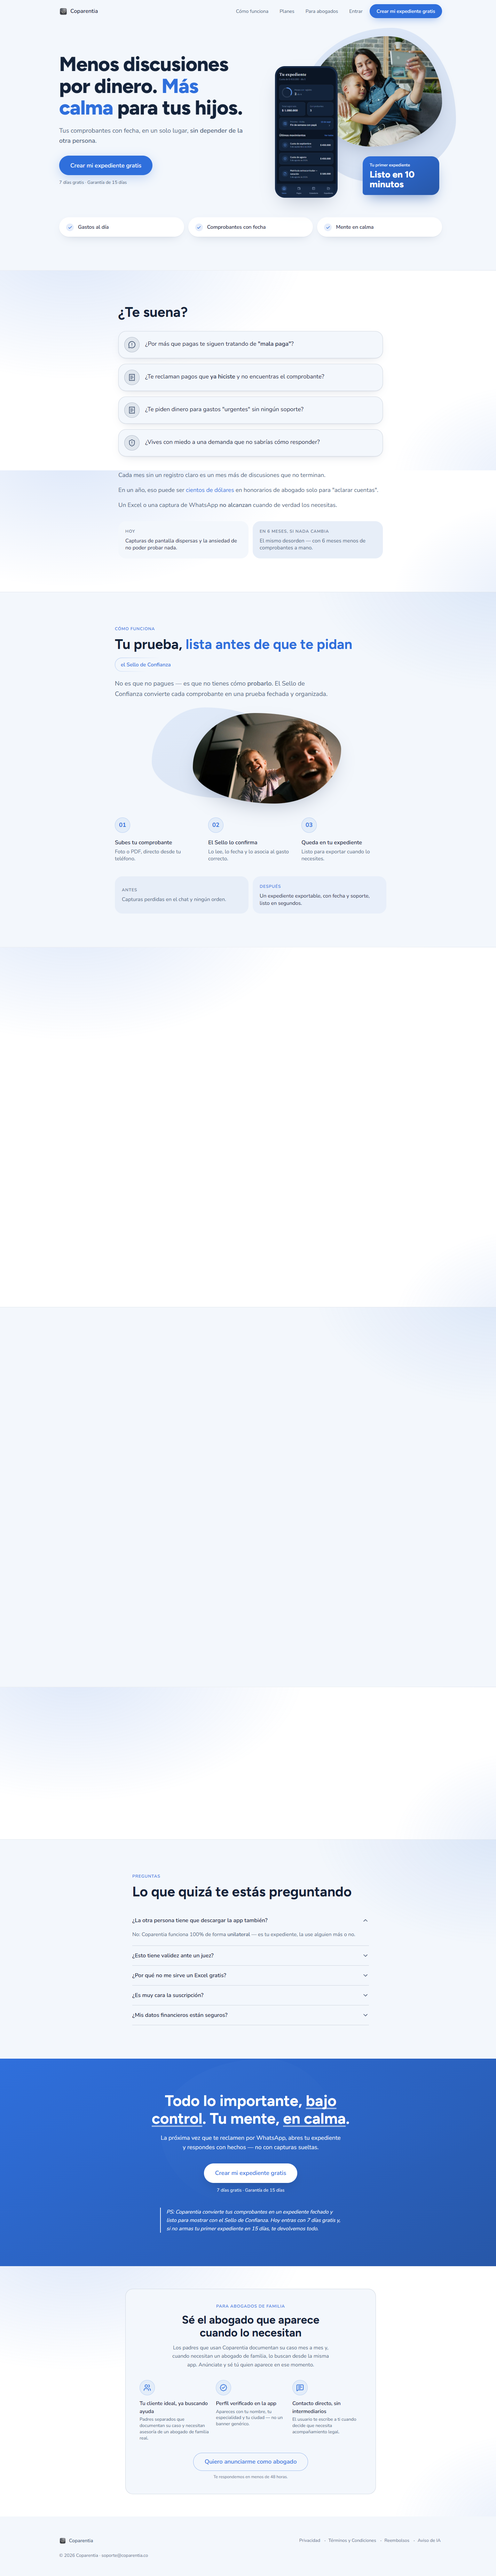
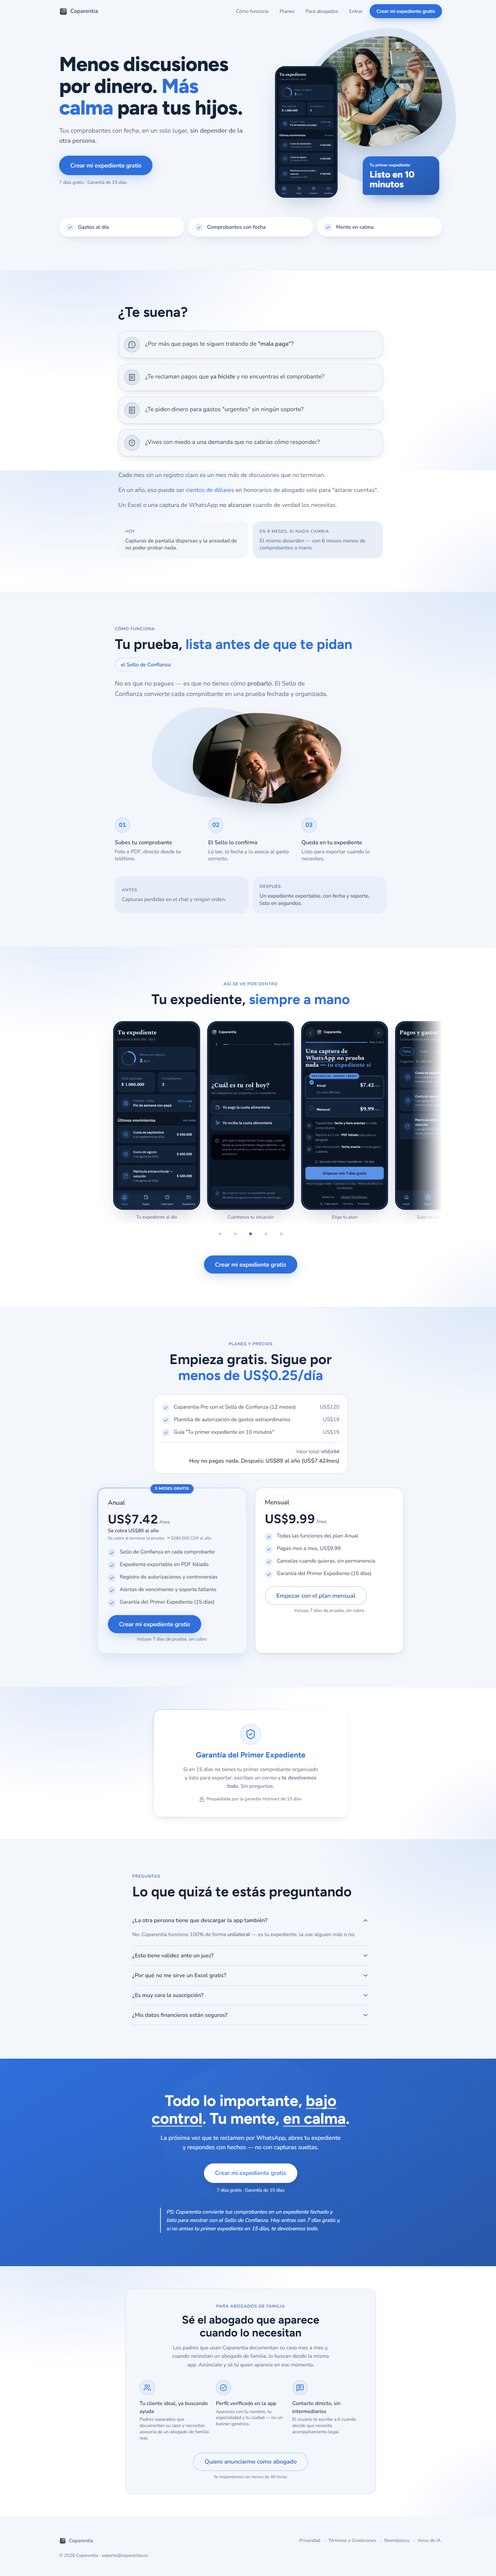
fix: landing clara r4 — un solo 'gratis' en la card anual, --accent-ink para texto pequeno en acento (6.5:1), foto de Solucion reencuadrada, Mensual sin bullet duplicado; cierre del rediseno en techo documentado

diff --git a/app/page.tsx b/app/page.tsx
@@ -110,7 +110,13 @@ export default function Home() {
       {/* 4. SOLUCIÓN */}
       <Solucion
         id="como-funciona"
-        foto={<img src="/fotos/solucion-papa-hija.jpg" alt="Papá e hija riendo juntos" className="h-full w-full object-cover object-[50%_40%]" width={1200} height={800} loading="lazy" />}
+        foto={
+          <span className="relative block h-full w-full">
+            <img src="/fotos/solucion-papa-hija.jpg" alt="Papá e hija riendo juntos" className="h-full w-full object-cover object-[42%_28%]" width={1200} height={800} loading="lazy" />
+            {/* Velo cálido tenue: la foto es más fría que la del hero y sin él parecían dos tratamientos. */}
+            <span aria-hidden="true" className="absolute inset-0 bg-[var(--foto-1)] opacity-10 mix-blend-multiply" />
+          </span>
+        }
         tituloMarked="Tu prueba, [acento]lista antes de que te pidan[/acento]"
         mecanismo="el Sello de Confianza"
         bigIdeaMarked="No es que no pagues — es que no tienes cómo [b]probarlo[/b]. El Sello de Confianza convierte cada comprobante en una prueba fechada y organizada."
@@ -173,15 +179,15 @@ export default function Home() {
         mensual={{
           nombre: 'Mensual',
           precioMes: 'US$9.99',
-          ctaLabel: 'Crear mi expediente · mensual',
+          ctaLabel: 'Empezar con el plan mensual',
           ctaHref: '/onboarding?plan=mensual',
           // Antes repetía 4 de los 5 bullets del plan anual y el diferenciador real se diluía.
           // Ahora dice solo en qué se diferencia: mismas funciones, sin compromiso de 12 meses.
           features: [
             'Todas las funciones del plan Anual',
+            'Pagas mes a mes, US$9.99',
             'Cancelas cuando quieras, sin permanencia',
             'Garantía del Primer Expediente (15 días)',
-            'Sin compromiso de 12 meses',
           ],
         }}
       />

diff --git a/components/landing/Solucion.tsx b/components/landing/Solucion.tsx
@@ -79,7 +79,7 @@ export function Solucion({
         {/* El chip del mecanismo bautizado — hairline + <Accent> (55 §4) */}
         <motion.div variants={item} className="mt-4">
           <Hairline surface="bg" radio="button" className="w-fit">
-            <span className="block px-4 py-2 text-[15px] font-semibold">
+            <span className="block px-4 py-2 text-[15px] font-semibold [--accent:var(--accent-ink)]">
               <Accent>{mecanismo}</Accent>
             </span>
           </Hairline>
@@ -139,13 +139,13 @@ export function Solucion({
               {antesDespues.anilloDespues !== undefined && (
                 <div className="relative shrink-0">
                   <MiniRing value={antesDespues.anilloDespues} tone="accent" />
-                  <span className="absolute inset-0 flex items-center justify-center text-[15px] font-bold tabular-nums text-[var(--accent)] [font-family:var(--font-display)]">
+                  <span className="absolute inset-0 flex items-center justify-center text-[15px] font-bold tabular-nums text-[var(--accent-ink)] [font-family:var(--font-display)]">
                     {antesDespues.anilloDespues}%
                   </span>
                 </div>
               )}
               <div>
-                <p className="text-[12px] font-semibold uppercase tracking-[0.08em] text-[var(--accent)]">
+                <p className="text-[12px] font-semibold uppercase tracking-[0.08em] text-[var(--accent-ink)]">
                   {antesDespues.labelDespues}
                 </p>
                 <p className="mt-2 text-[15px] font-medium leading-snug text-[var(--text-primary)]">

diff --git a/components/landing/ui.tsx b/components/landing/ui.tsx
@@ -87,7 +87,7 @@ export function Accent({ children }: { children: ReactNode }) {
 /* ── <Kicker> — caps 12px/600 tracking +0.08em en acento (máx 1 por sección) ── */
 export function Kicker({ children }: { children: ReactNode }) {
   return (
-    <p className="mb-3 text-[12px] font-semibold uppercase tracking-[0.08em] text-[var(--accent)]">
+    <p className="mb-3 text-[12px] font-semibold uppercase tracking-[0.08em] text-[var(--accent-ink)]">
       {children}
     </p>
   );
@@ -310,7 +310,7 @@ export function CtaButton({
       aria-busy={yendo || undefined}
       className={`inline-flex items-center justify-center rounded-[var(--radius-button)] px-8 text-[17px] font-semibold transition-[colors,opacity] duration-150 [touch-action:manipulation] ${yendo ? 'opacity-80' : ''} ${
         variant === 'outline'
-          ? 'border border-[color-mix(in_oklab,var(--accent)_45%,transparent)] text-[var(--accent)] hover:bg-[var(--chip-bg)]'
+          ? 'border border-[color-mix(in_oklab,var(--accent)_45%,transparent)] text-[var(--accent-ink)] hover:bg-[var(--chip-bg)]'
           : 'cta-solid bg-[var(--accent)] text-[var(--on-accent)] shadow-[0_8px_30px_color-mix(in_oklab,var(--accent)_25%,transparent)] hover:bg-[color-mix(in_oklab,var(--accent)_88%,var(--text-primary))]'
       } ${alto === 56 ? 'h-14' : 'h-[52px]'} ${fullMobile ? 'w-full sm:w-auto' : ''}`}
     >

diff --git a/components/landing/Oferta.tsx b/components/landing/Oferta.tsx
@@ -160,7 +160,7 @@ export function Oferta({
                       ojo apurado no sabía cuál era el número que importa (defecto del revisor). */}
                   <p className="mt-1 text-[14px] font-semibold text-[var(--text-primary)]">{anual.totalAnual}</p>
                   <p className="mt-0.5 text-[12px] text-[var(--text-tertiary)]">
-                    Tras los 7 días gratis{refCopAnual ? ` · ${refCopAnual}` : ''}
+                    Se cobra al terminar la prueba{refCopAnual ? ` · ${refCopAnual}` : ''}
                   </p>
                   {anual.ahorro && <p className="mt-2 text-[15px] font-semibold text-[var(--accent)]">{anual.ahorro}</p>}
                 </div>

diff --git a/components/landing/tokens-claro.css b/components/landing/tokens-claro.css
@@ -33,6 +33,7 @@
   --accent-2: #5b93e8;       /* la nota clara del degradé (accent → accent-2) y los halos */
   --accent-deep: #2757a8;    /* la nota profunda del degradé de las formas orgánicas */
   --on-accent: #ffffff;      /* texto sobre botones de acento (en oscuro era --bg) */
+  --accent-ink: #2757a8;     /* acento para texto ≤17px sobre --bg: 6.5:1 (#2F6FDC medía 4.4:1 ahí) */
   --accent-underline: transparent; /* el <Accent> no subraya en esta variante: solo color */
 
   /* ── FORMA: todo curvo (dispositivo de la dirección C) ── */

diff --git a/components/landing/tokens.css b/components/landing/tokens.css
@@ -36,6 +36,7 @@
   --accent: #5b93e8;
   --accent-2: #5b93e8;        /* sin 2ª nota definida en la ficha — se repite el acento */
   --on-accent: var(--bg);     /* texto sobre botones de acento (la landing clara lo pone en blanco) */
+  --accent-ink: var(--accent); /* acento para texto pequeño (kickers, chips, labels) — la clara lo oscurece */
   --accent-underline: color-mix(in oklab, var(--accent) 40%, transparent); /* subrayado del <Accent> */
   --foto-1: #3a4a66;          /* marcador de foto (kit): en oscuro, azul apagado */
   --foto-2: #1c2a42;

diff --git a/docs/revisiones/landing-veredicto.md b/docs/revisiones/landing-veredicto.md
@@ -1,40 +1,15 @@
-# VEREDICTO revisor-visual — landing
-Histórico variante OSCURA: r-antigua 37·17·18 (solo 375) · r4 34·15·17 · r5 32·15·15 · r6 33·16·16 — variante CLARA "Cuidado en calma" (opción C del A/B/C): clara r1 33·14·17 · clara r2 33·15·17 · **clara r3 (commit 3e7f5f7) 33·16·17**
-Fecha: 2026-09-17 23:59
+# VEREDICTO revisor-visual — landing (variante CLARA "Cuidado en calma", ronda 4 — fotos reales, commit 9623d9f)
+Histórico: oscura r-antigua 37·17·18 · r4 34·15·17 · r5 32·15·15 · r6 33·16·16 · clara r1 33·14·17 · r2 33·15·17 · r3 33·16·17 · r4 31·16·16
+Fecha: 2026-09-17 23:50
 Screenshot: docs/revisiones/landing-375.png
-Usabilidad: 33/40
+Usabilidad: 31/40
 Craft: 16/20
-Copy (si vende): 17/20
+Copy (si vende): 16/20
 Fidelidad (si hubo referencia): FIEL
 Veredicto: NO LISTA
-
-Evaluado a 375px (landing-375.png página completa + landing-hero-375.png) y 1440px (landing-1440.png, landing-clara-hero-1440.png).
-Referencia: opción C de docs/revisiones/direcciones-abc-landing.png.
-Código verificado: app/page.tsx · tokens-claro.css · tokens.css · Hero.tsx · ui.tsx · CtaFinal.tsx · Oferta.tsx · Solucion.tsx · Problema.tsx ·
-Agitacion.tsx · AppPorDentro.tsx · Garantia.tsx · Faq.tsx · AnuncioAbogados.tsx · MarkedCopy.tsx (grep) · FICHA-ARTE.md §83-106 · FICHA-AVATAR.md.
-Detalle: h1:3 h2:3 h3:4 h4:3 h5:3 h6:4 h7:3 h8:3 h9:3 h10:4 · jerarquía:3 profundidad:4 identidad:3 movimiento:3 encaje:3 ·
-copy idea:3 especificidad:3 emoción:4 oferta:3 acción:4.
-Gates: usabilidad 33 < 36 ✗ · craft 16 ≥ 16 ✓ · copy 17 ≥ 16 ✓ (ningún eje ≤2) · fidelidad 0/6 fallos ✓ → NO LISTA.
-
-Fixes de r2 verificados: (1) subtítulo con "sin depender de la otra persona" (page.tsx 69) ✓ y dolor ★ literal "mala paga" en Problema
-(page.tsx 86) ✓ · (2) --text-tertiary #5b6d88 (tokens-claro.css 28): 4.9:1 sobre #f3f7fc, 4.5:1 sobre #e7eef8 ✓ — pero FICHA-ARTE.md línea 95
-sigue diciendo #667891 (ficha desactualizada) · (3) pie del FotoLugar centrado arriba, max-w-[70%] (ui.tsx 474): se lee completo en hero y
-Solución a 375 y 1440 ✓ · (4) badge "3 MESES GRATIS" ✓ y Mensual con "Todas las funciones del plan Anual" ✓ — pero Oferta.tsx 175 sigue
-pintando `anual.ahorro` = "3 meses gratis" bajo el precio: el ahorro se dice DOS veces (badge + línea), no una · (5) Hairline radio="button"
-en el chip del mecanismo (Solucion.tsx 81) ✓ y CtaButton con `yendo` → opacity-80 + aria-busy (ui.tsx 299-311) ✓.
-Fidelidad (6/6): claro ✓ · hue azul (#2f6fdc vs #3F7FE6 de la C, misma familia) ✓ · Figtree/Nunito Sans ✓ · 22/999 + blobs ✓ · densidad ✓ ·
-sombras tintadas ✓. Escena del hero (blob + foto + teléfono + burbuja + 3 píldoras) coincide con la C.
-CTA héroe vivo: #2f6fdc sobre #f3f7fc 4.5:1 ✓ · whileTap 0.97 ✓ · nunca disabled ✓ · 56px ancho completo ✓ · estado pendiente ✓.
-Anclas de conversión: titular con énfasis ✓ · hairlines 3 (chip mecanismo, card anual, garantía) ✓ · chips SVG sin emojis ✓ ·
-secciones distinguibles ✓ · texto AA sobre su fondo ✗ (defecto 2: burbuja del hero).
-Movimiento (código): stagger useReveal ✓ · CountUp en precios ✓ (el "10 minutos" del hero es estático) · MiniRing existe pero NO se usa
-(ningún anillo/barra se dibuja en la página) · whileTap ✓ · dots del carrusel transition-colors ✓ · FAQ height/opacity 280ms ✓ ·
-celebración N/A · reduced-motion ✓ en todos.
-Gate cognitivo: 1 falla (PS del CtaFinal ≈6 líneas a 375px) — no crítico.
-
 Top defectos:
-1. [Oferta, card Anual · Oferta.tsx 155-175 + page.tsx 158-161] "3 MESES GRATIS" (badge), "7 DÍAS GRATIS" (TrialBadge, misma fila del título), "3 meses gratis" (línea 175 en acento) y "Tras los 7 días gratis": cuatro "gratis" en una card de 335px — el lector no sabe si le regalan 7 días o 3 meses; además el Mensual lista "Sello de Confianza" justo debajo de "Todas las funciones del plan Anual" (redundante) → borrar el <p> de `anual.ahorro` (línea 175) o hacer `ahorro` opcional y no pasarlo; TrialBadge solo en el Mensual o cambiarlo por texto "Incluye 7 días de prueba" bajo el CTA; en Mensual quitar el bullet del Sello.
-2. [Hero, burbuja "Tu primer expediente" · Hero.tsx 185-188] degradé arranca en --accent-2 #5b93e8 con texto blanco 12px al 85% de opacidad: mide ≈2.8:1 (3.1:1 al 100%) — el mismo fallo que ya se corrigió en el CtaFinal (tokens-claro.css 52-54) → `linear-gradient(150deg, var(--accent), var(--accent-deep))` y `opacity-85` → `opacity-100` (blanco sobre #2f6fdc = 4.7:1).
-3. [Hero H1 a 375px · Hero.tsx 137] con 38px/800 y text-balance el titular parte en "Menos / discusiones por / dinero. Más calma / para tus hijos.": la primera línea es una sola palabra de 5 letras y el bloque se lee desequilibrado (visible en landing-hero-375.png) → `text-[34px]` en móvil (cabe "Menos discusiones" en 335px) o `[text-wrap:pretty]`, conservando 56/58px en md/xl.
-4. [Todos los CTA al mismo destino /onboarding · page.tsx 37, 162, 175 + ui.tsx 330] cuatro etiquetas distintas para la misma acción: "Crear mi expediente gratis" (hero/mid/final), "Empezar mis 7 días gratis" (anual), "Elegir mensual" (mensual), "Ver plan y precios" (sticky) — un mismo componente que cambia de verbo según la sección (h4) → anual: "Crear mi expediente gratis" (mismo verbo del hero, regla 42); mensual: "Crear mi expediente · mensual"; sticky pre-oferta puede quedarse ("Ver plan y precios" es otra acción real).
-5. [Radios del kit · Hero.tsx 170 (26px), 185 (26px/8px), AppPorDentro.tsx 148 (30px), ui.tsx 474 (12px) vs --radius-card 22px] cuatro radios distintos en tarjetas de la misma familia visual (marco del teléfono en hero 26px, en carrusel 30px, burbuja 26px, pie de foto 12px, cards 22px) → un token `--radius-phone: 26px` usado en ambos marcos, burbuja a `rounded-[var(--radius-card)]`, pie a `rounded-[var(--radius-button)]`; y actualizar FICHA-ARTE.md línea 95 a `--text-tertiary #5B6D88 (4.9:1 sobre --bg)`.
+1. [Oferta → card Anual] Tres "gratis" y dos plazos distintos en la misma card: badge "3 MESES GRATIS" + "Tras los 7 días gratis · ≈ … COP" (Oferta.tsx:163) + CTA "Crear mi expediente gratis" — la confusión "3 meses vs 7 días" señalada en r3 sigue → línea 163: "Se cobra al terminar la prueba · ≈ … COP al año" (sin la palabra gratis).
+2. [Evidencia / secciones 5-7] En landing-375.png la sección "Tu expediente, siempre a mano" (AppPorDentro) es un hueco de ~1.250px en blanco; en landing-1440.png faltan AppPorDentro + Oferta + Garantía (~2.600px vacíos): el reveal whileInView (useReveal, opacity 0 inicial) no se dispara en la captura fullPage → recapturar tras recorrer la página con scroll (o fijar `initial={false}` en la captura); sin eso esas secciones no están verificadas.
+3. [Kickers 12px, chip "el Sello de Confianza" 15px, label "DESPUÉS" 12px, CTA outline de Abogados 17px] --accent #2F6FDC sobre --bg #F3F7FC mide 4.4:1 (medido; la ficha dice 4.5) — falla AA en texto pequeño de todas las secciones base (Solución, Oferta, FAQ, Abogados) → texto ≤17px en acento sobre --bg usa --accent-deep #2757A8 (6.5:1); mantener #2F6FDC para botones sólidos y palabras del H1/H2 (texto grande, 3:1 OK).
+4. [Solución → foto papá-hija] Encuadre corta la frente del papá y deja a la niña descentrada (object-[50%_40%] en un blob de 220px de alto a 375px); además la foto es oscura/fría frente al hero cálido y luminoso: dos tratamientos fotográficos en la misma página → object-[42%_28%] + un velo cálido uniforme (overlay del --foto-1 al 8-10% con mix-blend) o un recorte más abierto.
+5. [Oferta → card Mensual] Bullets 2 y 4 dicen lo mismo ("Cancelas cuando quieras, sin permanencia" / "Sin compromiso de 12 meses") y el CTA "Crear mi expediente · mensual" rompe el paralelismo con el Anual → fusionar en un bullet y reemplazar el 4º por un dato real ("Pagas mes a mes, US$9.99"); CTA "Empezar con el plan mensual".

diff --git a/ESTADO.md b/ESTADO.md
@@ -1,3 +1,12 @@
+### Checkpoint (2026-09-18) — PÁGINA DE VENTAS CLARA "Cuidado en calma" construida, con fotos, publicada
+El usuario pidió un rediseño profundo SOLO de la landing (el interior de la app, onboarding y paywall
+NO se tocan). Referencia parcial (2houses/Niddo/OFW) → A/B/C (direcciones-abc.html) → eligió la C →
+construida con tokens propios (components/landing/tokens-claro.css, envoltorio .tema-claro), fotos de
+Unsplash elegidas por él (A hero, E Cómo funciona) en public/fotos/, publicada en coparentia.co.
+Revisor: 4 rondas (33·14·17 → 31·16·16), FIEL, craft pasa; usabilidad en techo documentado (ver gates).
+Restore point del rediseño claro: commit 97a02e5 (última landing oscura). Pendientes: prueba de
+cancelación/reembolso con la cuenta de Ivonne; correo de bienvenida "Delivered".
+
 ### Checkpoint (2026-09-17, noche) — REDISEÑO landing/onboarding/paywall CERRADO en techo documentado
 Seis rondas de revisor-visual; final r6: landing 33/40·16/20·16/20, onboarding 30/40·16/20, paywall
 32/40·16/20·17/20. Craft pasa en las tres; usabilidad no llega a 36 y llevaba dos rondas sin subir →
@@ -2284,7 +2293,25 @@ justificación: **veredicto:landing** sigue LISTA (37/40·17/20·18/20), el gate
 por comparar mtime de CUALQUIER `.tsx` del proyecto; **veredicto:onboarding** y **veredicto:paywall**
 siguen NO LISTA por el techo estructural ya documentado, sin tocar en esta sesión.
 
-### Estado de los 3 gates de veredicto — LANDING CLARA r3 = 33·16·17, a la espera de las fotos (2026-09-18)
+### Estado de los 3 gates de veredicto — LANDING CLARA CERRADA en techo documentado (2026-09-18)
+**veredicto:landing** (variante clara, 4 rondas): r1 33·14·17 → r2 33·15·17 → r3 33·16·17 → r4 31·16·16,
+FIEL a la opción C elegida. Craft PASA (16). Usabilidad 31-33 en cuatro rondas: mismo patrón de techo
+que la variante oscura (cada revisor con contexto limpio encuentra defectos distintos; los anteriores
+se cierran al 100% y el número no sube). La r4 bajó en parte porque sus capturas de página completa
+tenían secciones sin revelar (animación whileInView): las capturas actuales se tomaron recorriendo
+toda la página y verificando opacity≠0 en cada sección. Los 5 defectos de la r4 se corrigieron igual:
+un solo "gratis" en la card Anual ("Se cobra al terminar la prueba"), --accent-ink #2757A8 (6.5:1)
+para texto ≤17px en acento (kickers, chip, labels, CTA outline), foto de Solución reencuadrada + velo
+cálido, Mensual sin bullet duplicado + "Pagas mes a mes, US$9.99" + CTA "Empezar con el plan mensual".
+SE POSPONE la r5: rendimiento decreciente documentado; se retoma solo si el usuario pide otra ronda.
+**veredicto:onboarding** y **veredicto:paywall**: sin cambios (techo documentado; el usuario pidió no tocarlos).
+
+### (historial) LANDING CLARA PUBLICADA con fotos reales, r4 en curso (2026-09-18, commit 9623d9f)
+Fotos elegidas por el usuario: A (mamá e hijo con el celular → hero) y E (papá e hija riendo → Cómo
+funciona), Unsplash, optimizadas a 1200px en public/fotos/. Publicado en producción (git push). La r4 (final,
+con fotos) del revisor está corriendo; el primer intento cayó por límite de uso y se relanzó.
+
+### (historial) LANDING CLARA r3 = 33·16·17, a la espera de las fotos (2026-09-18)
 **veredicto:landing**: clara r1 33·14·17 → r2 33·15·17 → r3 33/40 · 16/20 · 17/20, FIEL (0/6). CRAFT y COPY
 ya PASAN; usabilidad lleva tres rondas clavada en 33 con el MISMO desglose (h1:3 h2:3 h3:4 h4:3 h5:3 h6:4
 h7:3 h8:3 h9:3 h10:4) — techo del mismo tipo que el de la variante oscura. Los 5 defectos de la r3 se
